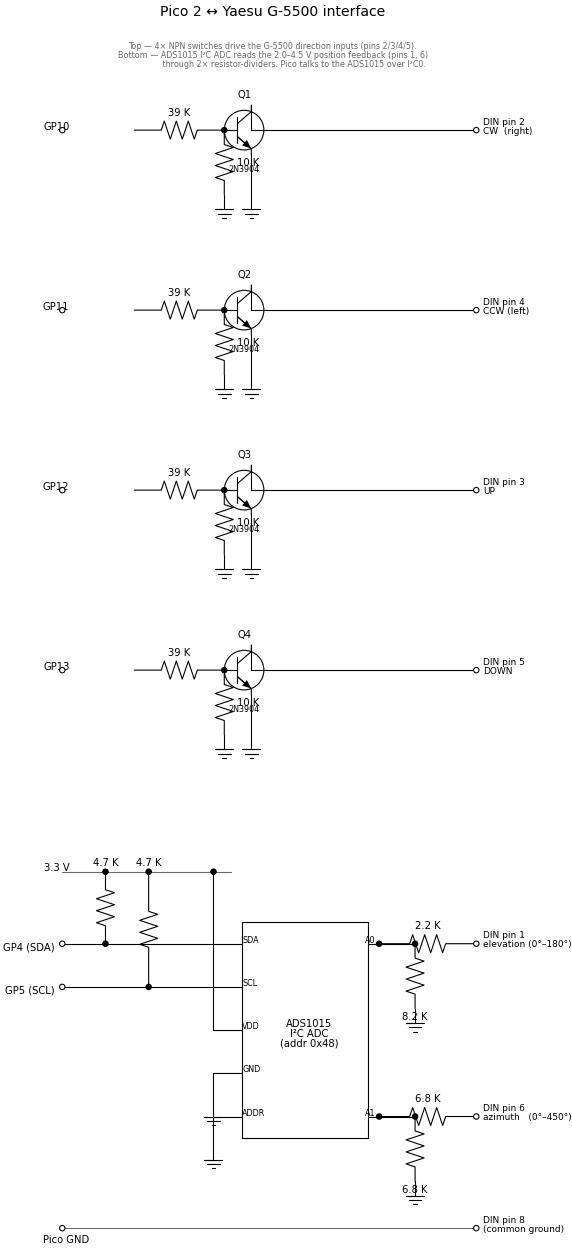
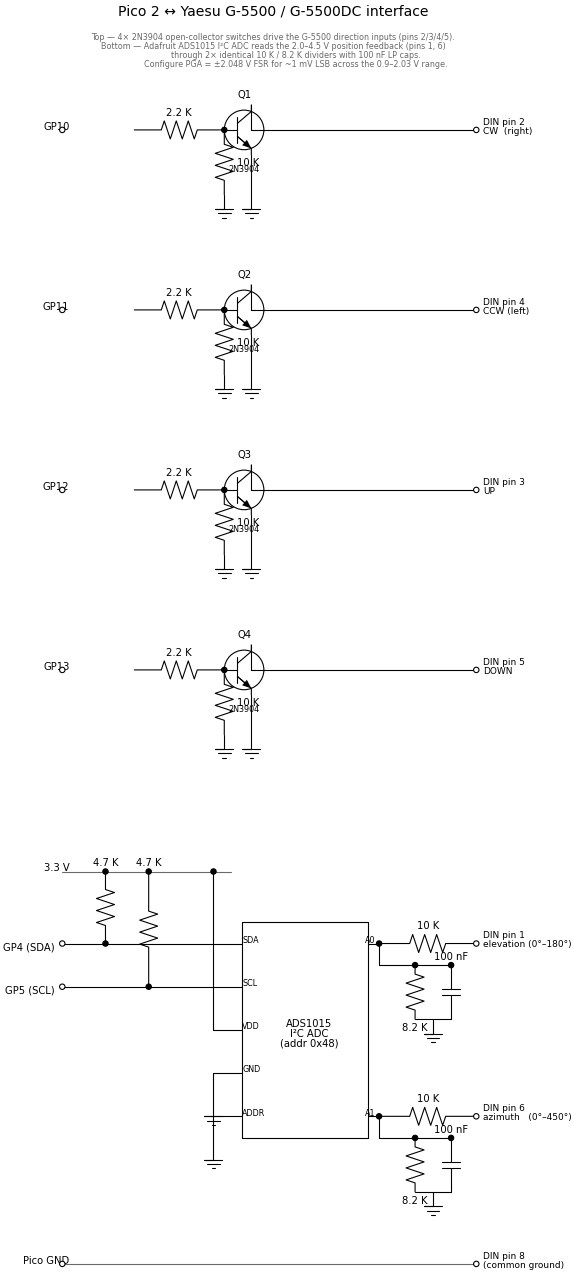
Pick component values from first principles for the G-5500/G-5500DC
The prototype values (39 K series base, 10 K base pull-down for the
direction switches; 2.2 K / 8.2 K and 6.8 K / 6.8 K dividers) didn't
hold up under analysis:

  Direction switches — at 3.3 V GPIO drive with 39 K series and 10 K
  pull-down the base voltage clamps at ≈ 0.67 V (just below V_be), so
  the transistor only reaches the linear region with ~290 µA of I_C —
  not enough to pull a G-5500 direction input cleanly to ground.

  Feedback dividers — 2.2 K (top) / 8.2 K (bottom) gives a 0.788 ratio,
  so a 4.5 V G-5500 output lands at 3.55 V — over the ADS1015's V_DD
  + 0.3 V abs-max at 3.3 V supply. The 6.8 K / 6.8 K divider is safe
  but only fills half of the useful ADC range.

The G-5500 and G-5500DC share the same 8-pin external-control connector
and the same 2.0–4.5 V feedback range, so the new values apply to both.

New values (also written up in docs/HARDWARE.md):

  Direction switches:
    R_series  = 2.2 K   →  I_B ≈ 1.1 mA at 3.3 V GPIO (robust saturation)
    R_pulldown = 10 K   →  holds base low when GPIO is high-Z

  Feedback dividers (identical on both channels):
    R_upper   = 10 K
    R_lower   = 8.2 K   →  ratio 0.451; 4.5 V in → 2.03 V out
    C_filter  = 100 nF  →  ≈ 350 Hz LP against 50/60 Hz pickup
    ADS1015 PGA = ±2.048 V FSR  →  ≈ 1 mV LSB

  I²C pull-ups:
    R_sda = R_scl = 4.7 K to 3.3 V (standard for 100–400 kHz I²C)

Assumptions (worth a service-manual check later):
  * G-5500 direction inputs sink a few mA at logic-low (typical for
[…]

diff --git a/design/circuit.py b/design/circuit.py
@@ -37,13 +37,23 @@ Notes
 * GPIO assignments are *suggestions* — pick whatever is convenient on
   the board. I²C0 defaults to GP4 (SDA) / GP5 (SCL); use any I²C-capable
   pair if those conflict.
-* Resistor values follow the prototype schematic:
-    direction channels — 39 K series base, 10 K base-to-emitter pull-down
-    elevation divider — 2.2 K upper, 8.2 K lower
-    azimuth   divider — 6.8 K upper, 6.8 K lower
-    I²C pull-ups      — 4.7 K to 3.3 V on SDA and SCL
-  Recalibrate once each unit's feedback range has been measured.
+* Resistor values are picked from first principles for the G-5500 /
+  G-5500DC interface (same external-control pinout on both):
+    direction channels — 2.2 K series base, 10 K base-to-emitter pull-down
+                         (gives ~1.1 mA I_B, robust saturation of the 2N3904)
+    feedback dividers — 10 K upper, 8.2 K lower for **both** channels
+                        (ratio 0.451 → 4.5 V input → 2.03 V output, sits
+                        just under the ADS1015's ±2.048 V FSR PGA setting)
+    feedback filter cap — 100 nF in parallel with R_lower
+                        (≈ 350 Hz LP with the 4.5 K Thévenin impedance,
+                        rejects 50/60 Hz pickup at no cost to tracking
+                        bandwidth)
+    I²C pull-ups        — 4.7 K to 3.3 V on SDA and SCL
 * The ADS1015's ADDR pin is tied to GND for the default address 0x48.
+* These values assume the G-5500's direction inputs sink a few mA at
+  logic-low (typical for Yaesu controllers) and that the feedback
+  outputs are buffered (low source impedance). The service manual would
+  confirm both; in the meantime these values are conservative.
 """
 
 import schemdraw
@@ -62,8 +72,8 @@ DIRECTION_CHANNELS = [
 
 FEEDBACK_CHANNELS = [
     # (ADS1015 input, G-5500 pin, R_upper, R_lower, what it measures)
-    ("A0", "pin 1", "2.2 K", "8.2 K", "elevation (0°–180°)"),
-    ("A1", "pin 6", "6.8 K", "6.8 K", "azimuth   (0°–450°)"),
+    ("A0", "pin 1", "10 K", "8.2 K", "elevation (0°–180°)"),
+    ("A1", "pin 6", "10 K", "8.2 K", "azimuth   (0°–450°)"),
 ]
 
 
@@ -101,13 +111,15 @@ def direction_channel(d: schemdraw.Drawing, idx: int, gpio: str,
     d += elm.Dot(open=True).at((X_PICO, y))
     d += elm.Label().label(gpio, loc="left", ofst=(0.1, 0))
 
-    # 39 K series base resistor.
-    d += elm.Resistor().endpoints((X_R_SERIES, y), (X_BASE_NODE, y)).label("39 K")
+    # 2.2 K series base resistor: gives ~1.1 mA I_B for 3.3 V GPIO drive,
+    # plenty to saturate a 2N3904 driving the G-5500 direction input.
+    d += elm.Resistor().endpoints((X_R_SERIES, y), (X_BASE_NODE, y)).label("2.2 K")
 
     # Base node.
     d += elm.Dot().at((X_BASE_NODE, y))
 
-    # 10 K base-pull-down to GND (drawn straight down from the base node).
+    # 10 K base-pull-down to GND: holds the base low while the Pico GPIO
+    # is high-Z (boot/reset) but doesn't steal appreciable I_B once on.
     d += (r_pd := elm.Resistor().down().at((X_BASE_NODE, y))
           .length(1.8).label("10 K", loc="bot"))
     d += elm.Ground().at(r_pd.end)
@@ -251,36 +263,69 @@ def i2c_bus(d: schemdraw.Drawing, ads_left: dict) -> None:
 # ── Feedback dividers ───────────────────────────────────────────────────
 def feedback_divider(d: schemdraw.Drawing, idx: int, ads_pin_xy: tuple,
                      din_pin: str, r_up: str, r_lo: str, what: str) -> None:
-    """One resistor-divider channel between an ADS1015 input and a DIN pin."""
+    """One resistor-divider channel between an ADS1015 input and a DIN pin.
+
+    Topology:
+
+        chip pin ●──tap──[R_up]──── DIN pin (G-5500 feedback, 2.0–4.5 V)
+                  │
+                  ●─────────●
+                  │         │
+                 R_lo      100 nF
+                  │         │
+                  ●─────────●
+                       │
+                      GND
+
+    The 100 nF cap in parallel with R_lo gives a ≈ 350 Hz low-pass
+    against 50/60 Hz pickup and switching noise; the corner is well
+    above any realistic mechanical bandwidth of the rotator.
+    """
     ax, ay = ads_pin_xy
-    # Stagger the divider channels vertically so they don't collide.
-    y = ay - 0.0  # the tap node lives on the ADS1015 input line itself
-
-    # Tap dot just outside the ADS1015 stub.
+    tap_y = ay
     tap_x = ax + 0.3
-    d += elm.Dot().at((tap_x, y))
 
-    # R_upper running right from the tap to the DIN pin column.
-    d += elm.Resistor().endpoints((tap_x, y), (X_DIN, y)).label(r_up)
-    d += elm.Dot(open=True).at((X_DIN, y))
+    # Tap dot on the chip pin stub.
+    d += elm.Dot().at((tap_x, tap_y))
+
+    # R_upper: tap → DIN pin (horizontal).
+    d += elm.Resistor().endpoints((tap_x, tap_y), (X_DIN, tap_y)).label(r_up)
+    d += elm.Dot(open=True).at((X_DIN, tap_y))
     d += elm.Label().label(f"DIN {din_pin}\n{what}", loc="right",
                            ofst=(0.1, 0), fontsize=9)
 
-    # R_lower running down from the tap to GND.
-    # Use a small horizontal jog so the vertical resistor doesn't sit on
-    # top of the chip pin stub.
-    jog_x = tap_x + 1.0
-    d += elm.Line().endpoints((tap_x, y), (jog_x, y))
-    d += elm.Dot().at((jog_x, y))
-    d += (r := elm.Resistor().down().at((jog_x, y))
-          .length(1.8).label(r_lo, loc="left"))
-    d += elm.Ground().at(r.end)
+    # The two parallel-to-GND elements (R_lo and 100 nF) live in a
+    # branch zone just below the tap so they don't share the y-line
+    # with R_up.
+    branch_y = tap_y - 0.6
+    r_lo_x   = tap_x + 1.0
+    cap_x    = tap_x + 2.0
+
+    # Vertical stub from the tap down to the branch bar.
+    d += elm.Line().endpoints((tap_x, tap_y), (tap_x, branch_y))
+    # Horizontal branch bar, from below the tap out to the cap column.
+    d += elm.Line().endpoints((tap_x, branch_y), (cap_x, branch_y))
+    d += elm.Dot().at((r_lo_x, branch_y))
+    d += elm.Dot().at((cap_x, branch_y))
+
+    # R_lo straight down.
+    d += (r := elm.Resistor().down().at((r_lo_x, branch_y))
+          .length(1.5).label(r_lo, loc="left"))
+
+    # 100 nF cap in parallel with R_lo.
+    d += (c := elm.Capacitor().down().at((cap_x, branch_y))
+          .length(1.5).label("100 nF", loc="right"))
+
+    # Bottom bar joining R_lo and the cap, with a single GND symbol.
+    d += elm.Line().endpoints(r.end, c.end)
+    mid_x = (r_lo_x + cap_x) / 2
+    d += elm.Ground().at((mid_x, r.end[1]))
 
 
 # ── Common ground ───────────────────────────────────────────────────────
 def common_ground(d: schemdraw.Drawing) -> None:
     """Pico GND ↔ G-5500 DIN pin 8."""
-    y = ADS_Y - 2.5
+    y = ADS_Y - 3.5
     d += elm.Dot(open=True).at((X_PICO, y))
     d += elm.Label().label("Pico GND", loc="left", ofst=(0.1, 0))
     d += elm.Line().endpoints((X_PICO, y), (X_DIN, y)).color("dimgray")
@@ -292,13 +337,14 @@ def common_ground(d: schemdraw.Drawing) -> None:
 # ── Title block ─────────────────────────────────────────────────────────
 def title(d: schemdraw.Drawing) -> None:
     d += elm.Label().label(
-        "Pico 2 ↔ Yaesu G-5500 interface",
+        "Pico 2 ↔ Yaesu G-5500 / G-5500DC interface",
         loc="top", fontsize=14,
     ).at((X_DIN / 2, TITLE_Y))
     d += elm.Label().label(
-        "Top — 4× NPN switches drive the G-5500 direction inputs (pins 2/3/4/5).\n"
-        "Bottom — ADS1015 I²C ADC reads the 2.0–4.5 V position feedback (pins 1, 6)\n"
-        "                 through 2× resistor-dividers. Pico talks to the ADS1015 over I²C0.",
+        "Top — 4× 2N3904 open-collector switches drive the G-5500 direction inputs (pins 2/3/4/5).\n"
+        "Bottom — Adafruit ADS1015 I²C ADC reads the 2.0–4.5 V position feedback (pins 1, 6)\n"
+        "                  through 2× identical 10 K / 8.2 K dividers with 100 nF LP caps.\n"
+        "                  Configure PGA = ±2.048 V FSR for ~1 mV LSB across the 0.9–2.03 V range.",
         loc="top", fontsize=8, color="dimgray",
     ).at((X_DIN / 2, TITLE_Y - 1.4))
 

diff --git a/docs/HARDWARE.md b/docs/HARDWARE.md
@@ -91,20 +91,30 @@ The planned circuit (canonical version in
 [`design/circuit.py`](../design/circuit.py) / `circuit.svg`):
 
 - **Direction**: four GPIO outputs each drive the base of a 2N3904 NPN
-  through a 39 K series resistor, with a 10 K base-to-emitter pull-down
-  for noise immunity. The collectors connect to G-5500 pins 2–5; emitters
-  to common ground. When the GPIO goes high the transistor saturates and
-  shorts its G-5500 pin to ground — electrically equivalent to pressing
-  the corresponding direction button on the controller's front panel.
+  through a **2.2 K** series resistor, with a **10 K** base-to-emitter
+  pull-down. The 2.2 K gives ≈ 1.1 mA of base current at a 3.3 V GPIO,
+  comfortably saturating the transistor for any reasonable sink current
+  from the G-5500 input. The 10 K pull-down holds the base low while the
+  Pico GPIO is high-impedance (boot or reset) but does not steal
+  appreciable base current once the GPIO drives high. Collectors connect
+  to G-5500 pins 2–5; emitters to common ground. When the GPIO goes high
+  the transistor saturates and shorts its G-5500 pin to ground —
+  electrically equivalent to pressing the corresponding direction button
+  on the controller's front panel.
 
 - **Feedback**: the Pico does **not** sample the G-5500 directly with its
   on-chip ADC. Instead an Adafruit **ADS1015** I²C ADC sits between the
   G-5500 and the Pico, with its A0 and A1 inputs fed from the G-5500's
-  feedback pins through per-channel resistor-dividers (so the 2.0–4.5 V
-  feedback lands within the ADS1015's input window). The Pico talks to
-  the ADS1015 over I²C0 (GP4/GP5) with 4.7 K pull-ups to 3.3 V. The
-  ADS1015's ADDR pin is tied to GND, giving it I²C address 0x48. Per-unit
-  calibration of the divider ratios is captured in software.
+  feedback pins through identical **10 K (upper) / 8.2 K (lower)**
+  resistor-dividers. That gives a ratio of 0.451, so the G-5500's 4.5 V
+  full-scale lands at 2.03 V — just under the ADS1015's tightest useful
+  PGA setting (±2.048 V FSR), which keeps the LSB at ≈ 1 mV. A **100 nF**
+  cap in parallel with the lower resistor forms a ≈ 350 Hz low-pass
+  against 50/60 Hz pickup, well above any plausible mechanical bandwidth
+  of the rotator. The Pico talks to the ADS1015 over I²C0 (GP4 = SDA,
+  GP5 = SCL) with **4.7 K** pull-ups to 3.3 V. The ADS1015's ADDR pin is
+  tied to GND, giving it I²C address 0x48. Per-unit calibration of the
+  divider ratios is captured in software.
 
 There is no speed control on this interface; control is bang-bang. The
 firmware-side strategy is therefore a hysteretic / deadband controller:
